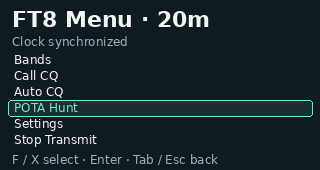
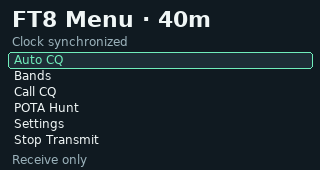
Move Auto CQ first and keep FT8 acknowledgments bright

diff --git a/tests/test_ft8_contact_ui.py b/tests/test_ft8_contact_ui.py
@@ -307,6 +307,24 @@ class PowerAndDisplay(unittest.TestCase):
         popup = module["qso_popup"](display, image, {"call": "W1AW", "band": "40m"})
         self.assertEqual(popup.getpixel((25, 80)), (18, 63, 48))
 
+    def test_acknowledgments_are_not_styled_as_grid_locators(self):
+        from PIL import ImageDraw, ImageFont
+        from types import SimpleNamespace
+        module = runpy.run_path(str(Path(__file__).resolve().parents[1] / "app/icomzero"))
+        display = SimpleNamespace(fonts={"small": ImageFont.truetype("/usr/share/fonts/truetype/dejavu/DejaVuSans.ttf", 12)})
+        for extra in ("RR73", "RRR", "R73", "73"):
+            history = History()
+            text = "K1ABC W1AW " + extra
+            history.update([Message(100, 1500, text, -10)], "K1ABC")
+            original = ImageDraw.ImageDraw.text
+            with patch.object(ImageDraw.ImageDraw, "text", autospec=True, side_effect=original) as draw:
+                module["ft8_frame"](display, history, "K1ABC", True, "", .5)
+            calls = [c for c in draw.call_args_list if c.args[2] == text]
+            self.assertEqual(len(calls), 1, extra)
+            self.assertEqual(calls[0].kwargs["fill"], "#ffe1a1")
+            self.assertEqual(calls[0].kwargs["font"].size, 12)
+
+
 
 class SelectedMenus(unittest.TestCase):
     def run_menu(self, manual=False, auto=False, pota=False, fault=False, initial=7074000, choose=False, sync=False):
@@ -384,7 +402,7 @@ class SelectedMenus(unittest.TestCase):
             def close(self):
                 pass
 
-        keys = [33, 15] + ([45] * 7 if manual else [45] * (3 if pota else (2 if auto else 1))) + [28]
+        keys = [33, 15] + ([45] * 7 if manual else [45] * (3 if pota else (0 if auto else 2))) + [28]
         if sync:
             keys = [15] + [45] * 4 + [28] + [45] * 8 + [28, 28, 1, 1, 1]
         if initial not in (7074000, 14074000):
@@ -440,7 +458,7 @@ class SelectedMenus(unittest.TestCase):
         )
         self.assertFalse(any(args[0] in ("cq", "reply") for args, _ in actions))
 
-    def test_auto_cq_beneath_call_cq_ignores_highlight(self):
+    def test_auto_cq_first_menu_item_ignores_highlight(self):
         actions, _ = self.run_menu(auto=True)
         self.assertTrue(any(args[0] == "auto_cq" for args, _ in actions))
         self.assertFalse(any(args[0] in ("cq", "reply") for args, _ in actions))
@@ -450,7 +468,7 @@ class SelectedMenus(unittest.TestCase):
         self.assertTrue(any(args[0] == "clear_fault" for args, _ in actions))
         self.assertFalse(any(args[0] in ("cq", "reply", "auto_cq", "pota_hunt") for args, _ in actions))
 
-    def test_pota_hunt_menu_action_is_beneath_auto_cq(self):
+    def test_pota_hunt_menu_action_remains_accessible(self):
         actions, _ = self.run_menu(pota=True)
         self.assertTrue(any(args[0] == "pota_hunt" for args, _ in actions))
 

diff --git a/app/ft8log.py b/app/ft8log.py
@@ -93,7 +93,7 @@ def request(url, data, form=False):
                 "application/x-www-form-urlencoded" if form else "application/json"
             ),
             "Accept": "application/json",
-            "User-Agent": "ICOMzero/0.16.6",
+            "User-Agent": "ICOMzero/0.16.7",
         },
     )
     with urllib.request.urlopen(req, timeout=10) as response:

diff --git a/tests/test_ft8_station.py b/tests/test_ft8_station.py
@@ -342,7 +342,8 @@ class UserInterface(unittest.TestCase):
         key(28)  # Answers row 18, never stops reception.
         key(15)
         key(45)
-        key(28)  # Tab -> Call CQ.
+        key(45)
+        key(28)  # Tab -> Call CQ (after Auto CQ and Bands).
         key(1)
         read, write = os.pipe()
         try:

diff --git a/app/version.py b/app/version.py
@@ -1,1 +1,1 @@
-VERSION = "0.16.6"
+VERSION = "0.16.7"

diff --git a/docs/USER_GUIDE.md b/docs/USER_GUIDE.md
@@ -29,7 +29,7 @@ Connect the Cardputer to a network that can reach the radio and enable the radio
 For manual installation, download the `.deb` from [GitHub Releases](https://github.com/unagisan69/ICOMzero/releases), then install it on the Cardputer.
 
 ```sh
-sudo apt install ./icomzero_0.16.6-1_arm64.deb
+sudo apt install ./icomzero_0.16.7-1_arm64.deb
 ```
 
 Open **ICOMzero** from APPLaunch after installation.
@@ -79,7 +79,7 @@ Choose **FT8** from the startup menu. Reception starts silently on the radio’s
 
 - **F / Fn+F** selects the previous decode; **X / Fn+X** selects the next. Hold to move through history one line at a time. Selection stays on the same decode when new messages arrive. Scrolling down to the newest line clears selection and resumes automatic scrolling.
 - **Enter** replies to or continues the highlighted recent contact. Selection clears after replying and the display returns to the newest decodes.
-- **Tab – Menu** opens Bands, Call CQ, Auto CQ, POTA Hunt, Settings, Stop Transmit, Logging, Record QSO, Tune antenna and Help. With a decode highlighted, Call CQ is displayed as **Reply / continue** and uses that station’s latest relevant message.
+- **Tab – Menu** opens Auto CQ, Bands, Call CQ, POTA Hunt, Settings, Stop Transmit, Logging, Record QSO, Tune antenna and Help. With a decode highlighted, Call CQ is displayed as **Reply / continue** and uses that station’s latest relevant message.
 - **Esc** returns to the main menu and stops transmission.
 
 ### Station and transmit setup
@@ -88,7 +88,7 @@ In **Settings**, enter your callsign and Maidenhead grid (four or six characters
 
 ### Auto CQ
 
-**Auto CQ**, directly under Call CQ, explicitly starts an automatic session. It sends **one own CQ**, allowing the final receive period to decode. If nobody answers, it selects the strongest eligible CQ heard within **90 seconds** (newest decode wins an SNR tie), calls that station **twice**, then tries up to **four different fresh CQ stations twice each** (five targets total). It ends if all five go unanswered or no fresh eligible target remains. Target calls use the decoded audio offset and opposite UTC period. An advancing reply starts the normal exchange, with four unanswered attempts per contact stage. Stalled exchanges are abandoned without logging; completed contacts save through the normal local/Wavelog/QRZ path.
+**Auto CQ**, first in the menu above Bands, explicitly starts an automatic session. It sends **one own CQ**, allowing the final receive period to decode. If nobody answers, it selects the strongest eligible CQ heard within **90 seconds** (newest decode wins an SNR tie), calls that station **twice**, then tries up to **four different fresh CQ stations twice each** (five targets total). It ends if all five go unanswered or no fresh eligible target remains. Target calls use the decoded audio offset and opposite UTC period. An advancing reply starts the normal exchange, with four unanswered attempts per contact stage. Stalled exchanges are abandoned without logging; completed contacts save through the normal local/Wavelog/QRZ path.
 
 ### Caller queue
 
@@ -96,7 +96,7 @@ Stations addressing you during another contact enter a **FIFO caller queue**. Re
 
 ### POTA Hunt
 
-**POTA Hunt**, directly below Auto CQ, stays in receive-only monitoring until it hears an eligible **CQ POTA** or **CQ SOTA**. It does not transmit its own CQ or a grid-first call: its first reply is the requested **R±dB** report using the decoded SNR, e.g. `W1AW K1ABC R-12`. It follows the activator’s audio offset and opposite UTC period. Each stage gets three unanswered transmission attempts (RRR gets four); an advancing report resets the counter. After completion or exhaustion it rests for 15 seconds, then monitors again; a failed activator has a 60-second cooldown. Already completed stations are skipped for the session. The footer keeps the armed dot without a POTA label, and the menu changes to **Stop POTA Hunt**. Stop Transmit, exit, band/settings changes and RF/clock/connection faults stop monitoring as well as TX. Session journals include the mode, rest and target decisions.
+**POTA Hunt**, in the FT8 menu, stays in receive-only monitoring until it hears an eligible **CQ POTA** or **CQ SOTA**. It does not transmit its own CQ or a grid-first call: its first reply is the requested **R±dB** report using the decoded SNR, e.g. `W1AW K1ABC R-12`. It follows the activator’s audio offset and opposite UTC period. Each stage gets three unanswered transmission attempts (RRR gets four); an advancing report resets the counter. After completion or exhaustion it rests for 15 seconds, then monitors again; a failed activator has a 60-second cooldown. Already completed stations are skipped for the session. The footer keeps the armed dot without a POTA label, and the menu changes to **Stop POTA Hunt**. Stop Transmit, exit, band/settings changes and RF/clock/connection faults stop monitoring as well as TX. Session journals include the mode, rest and target decisions.
 
 POTA Hunt’s direct R-report start still requires a real report from the other station before a QSO can be logged. An early RRR/RR73 without that report is not treated as a completed contact; reports are never invented. Actual report replies advance through the existing RRR/73 logic and local/Wavelog/QRZ logging.
 
@@ -155,7 +155,7 @@ sudo apt install build-essential python3-pil python3-numpy fonts-dejavu-core
 make check
 make test
 make package
-sudo apt install ./build/icomzero_0.16.6-1_arm64.deb
+sudo apt install ./build/icomzero_0.16.7-1_arm64.deb
 ```
 
 Use `make package APPBUILDER=/path/to/AppBuilder` for another checkout location. The package includes a foreground APPLaunch entry and declares its Python, Pillow, NumPy, font, ALSA, and PipeWire dependencies.

diff --git a/README.md b/README.md
@@ -42,7 +42,7 @@ Use **Settings → Check for updates** for the latest stable GitHub release. The
 For manual installation, download the ARM64 package from [GitHub Releases](https://github.com/unagisan69/ICOMzero/releases/latest). Close ICOMzero before installing:
 
 ```sh
-sudo apt install ./icomzero_0.16.6-1_arm64.deb
+sudo apt install ./icomzero_0.16.7-1_arm64.deb
 ```
 
 After an update, fully close and reopen the app to load the new version. [Update details →](docs/USER_GUIDE.md#app-settings-and-updates)
@@ -101,6 +101,8 @@ Measured RF output can differ from the power setting. Network-polled SWR/ALC pro
 [FT8 operation →](docs/USER_GUIDE.md#ft8-contacts) · [Clock and RF protection →](docs/USER_GUIDE.md#clock-and-rf-protection)
 
 ### 🔁 Auto CQ & POTA Hunt
+
+**Auto CQ is the first item in the FT8 menu**, above Bands.
 
 | Mode | Behavior |
 | --- | --- |

diff --git a/CHANGELOG.md b/CHANGELOG.md
@@ -1,5 +1,11 @@
 # Changelog
 
+## 0.16.7 — 2026-11-23
+
+- Put Auto CQ first in the FT8 menu, above Bands. Keep selected-decode replies and active automation stop labels attached to the correct actions.
+- Keep RR73 and other acknowledgment tokens in the bright message text instead of treating RR73 as a Maidenhead grid locator. Actual grid locators and the smaller signal report remain subdued.
+- Add acknowledgment-styling regressions and update menu-routing checks.
+
 ## 0.16.6 — 2026-11-23
 
 - Add Fn+F/Fn+X Radio spectrum/waterfall zoom at 1×, 2×, 4× and 8×, centered on the tuned frequency and bounded by the received scope span. The original view remains the widest setting.
